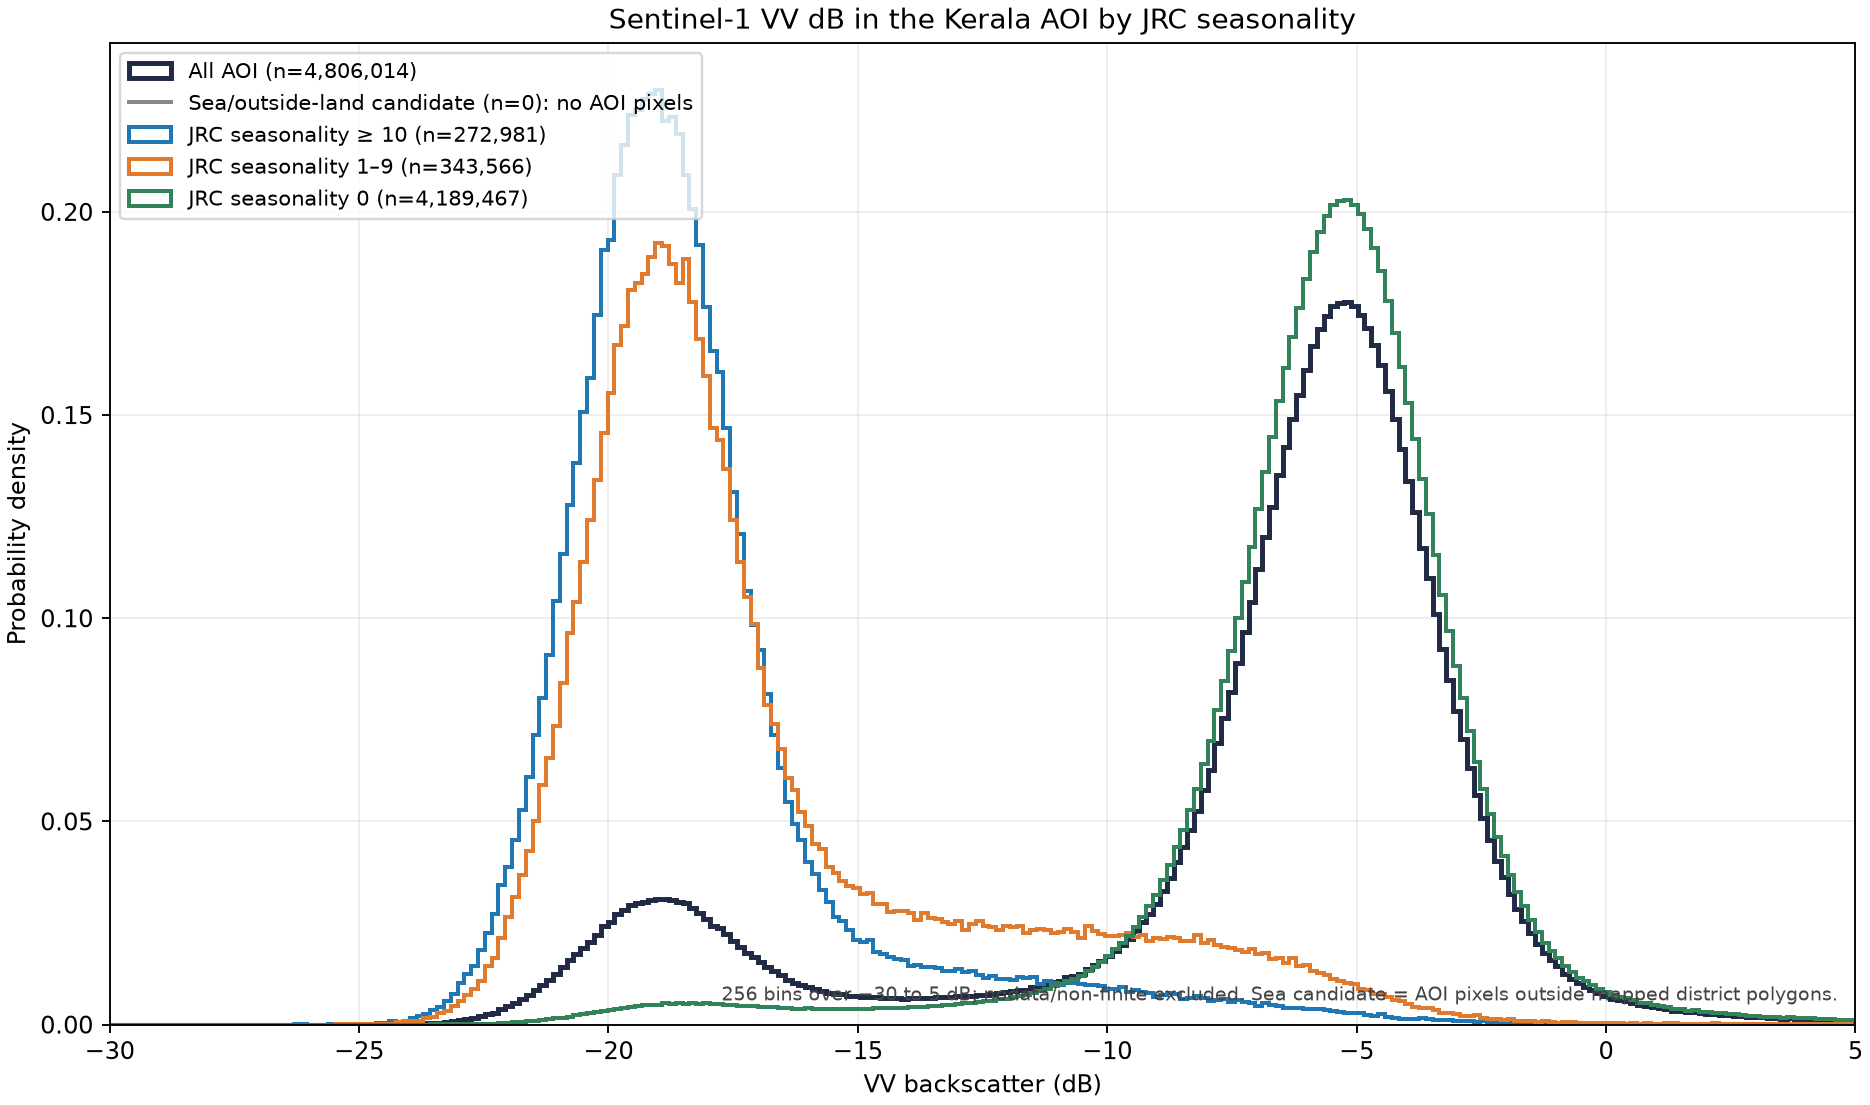
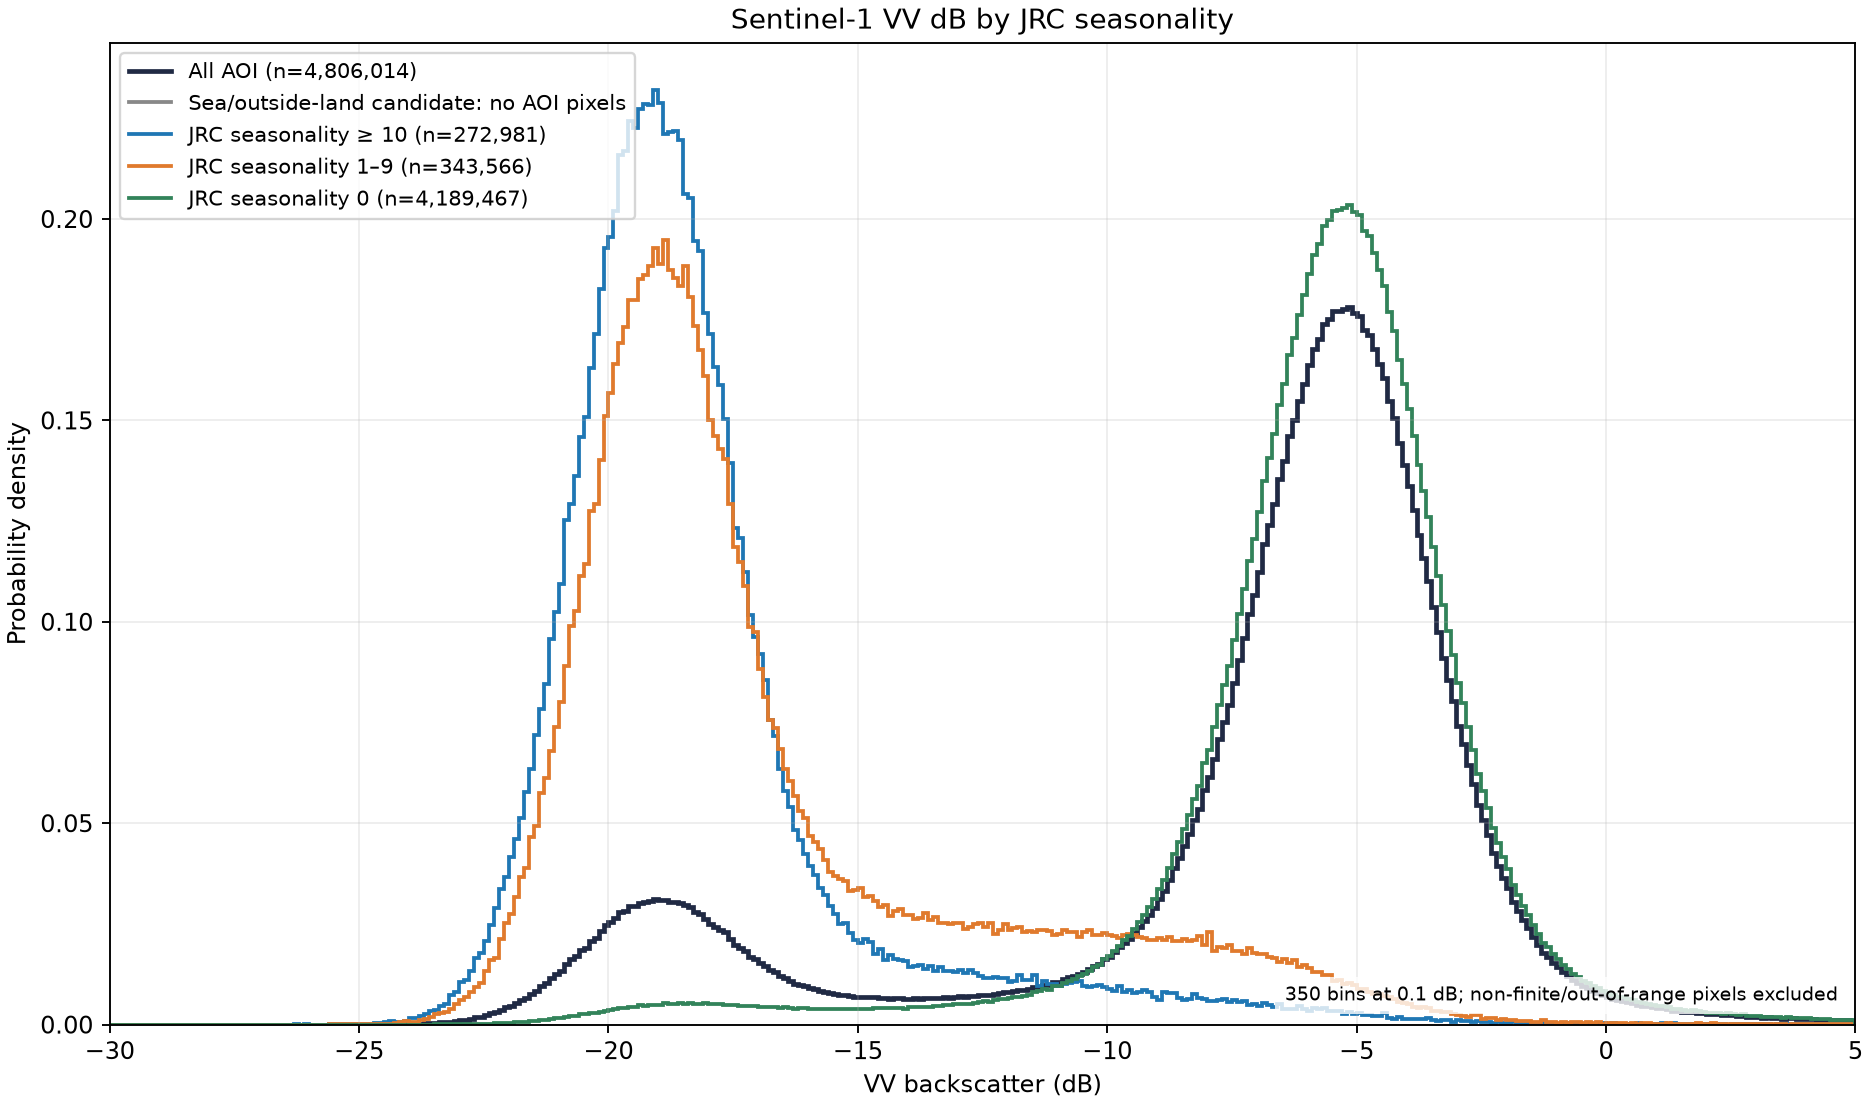
wip: record Kerala KI threshold gate failure

diff --git a/PROGRESS.md b/PROGRESS.md
@@ -1,5 +1,5 @@
 # PROGRESS
-## Status: Phase 2 diagnosis recorded and OSM vectors restored; threshold gate remains stopped
+## Status: Phase 2 stopped at the approved Kittler–Illingworth threshold gate; OSM vectors restored
 ## Checklist
 - [x] Phase 0
   - [x] 0.1 git init + .gitignore + upstream snapshot commit
@@ -24,7 +24,7 @@
   - [x] Taluk boundaries and verification
   - [x] Target grid
   - [x] Vector and raster layers
-  - [ ] Reference flood and Otsu threshold — stopped: rounded Otsu T is outside the prescribed range
+  - [ ] Reference flood and threshold gate — stopped: T_ki is outside the approved range after the VV-only rebuild
   - [ ] Manifest and cache outputs
   - [ ] Optional NASA cross-check
   - [ ] Lock layers and acceptance check
@@ -96,13 +96,18 @@ All runs used GISReActAgent on examples\urban-heat-madison, task "Compute the me
 
 ## Needs Kirito
 - Kirito explicitly resumed the work by directing Phase 1 after the Phase 0 STOP gate. The smoke task failures remain documented: Vulkan reached the 12-round limit; CPU stopped on repeated-code detection. The projected local matrix is below 20 hours, so no cut is required by the prompt.
-- Phase 2 must stop because the computed rounded Otsu threshold is -11.6 dB, outside the instructed range [-22,-13]. Please review the RTC units/resampling and the prescribed Otsu range before authorizing any change; no threshold, source data or tolerance was altered.
-- Phase 2 threshold diagnosis (report only; no layer, threshold, pack, or rule changes):
+- The initial pre-rebuild Phase 2 Otsu stop is superseded by the approved VV-only rebuild and Kittler–Illingworth gate documented below. No threshold range or rule was changed.
+- Pre-rebuild Phase 2 threshold diagnosis (historical; superseded by the approved rerun below):
   - District polygon areas in EPSG:32643: Ernakulam 2,919.995 km2 versus official land area about 3,068 km2 (-4.8%); Alappuzha 1,417.757 km2 versus about 1,415 km2 (+0.2%). Combined OSM area is 4,337.752 km2 versus 4,483 km2. The AOI mask is the union of these district polygons; it has zero in-AOI pixels outside their union. These areas give no evidence of substantial open sea in the polygons; minor coastal/backwater water may remain. Therefore a sea-removed Otsu result is not applicable. The requested plot is `data/kerala/meta/cache/vv_histogram.png`; the empty sea/outside-land candidate is labeled as such, and JRC curves use in-range VV pixels: seasonality >=10 n=272,981; 1-9 n=343,566; 0 n=4,189,467.
   - 500 m-radius spot medians (coordinates are lon,lat; only finite VV in [-30,5] dB): Vembanad Lake centre (76.390, 9.600), n=869, -19.50 dB; central Kochi/MG Road (76.285, 9.970), n=835, -3.53 dB; Kuttanad paddy near Nedumudi (76.370, 9.430), n=871, -18.72 dB. Lake median is within the expected -18 to -25 dB range.
   - Otsu uses the existing 256 bins over [-30,5] dB: current AOI n=4,806,014, T_raw=-11.6113 dB, rounded T=-11.6 dB; excluding JRC seasonality >=10 n=4,533,033, T_raw=-11.3379 dB, rounded -11.3 dB; Ernakulam alone n=3,234,661, T_raw=-11.2012 dB, rounded -11.2 dB; Alappuzha alone n=1,571,353, T_raw=-12.0215 dB, rounded -12.0 dB. All remain outside [-22,-13].
-  - Conversion audit: cached RTC sample percentiles (0.0288/0.2867/0.8537) support linear gamma0. The mosaic path averages in linear units and then applies 10*log10, as required. Its window reader uses the source mask and `src.nodata` (which should exclude -32768 when declared as nodata), but it does not explicitly exclude raw zero values before resampling/averaging. The current threshold therefore needs a corrected, explicitly masked source mosaic before it can be treated as final.
-  - Recommendation: rebuild only the VV mosaic with both -32768 and 0 explicitly excluded before linear averaging, convert the average with 10*log10, and recompute these same diagnostics. Keep the current range and pack unchanged. If the corrected AOI threshold is still outside the prescribed range, review the RTC product and Otsu sampling definition with Kirito before proceeding; do not force the threshold into range. No existing layer, flood output, or manifest was changed for this diagnosis.
+  - This was the pre-rebuild diagnosis: its 256-bin Otsu values and unmasked-zero audit are historical and are superseded by the approved rerun below.
+- Threshold re-check after Kirito's approved VV-only rebuild (2026-11-14): the two signed Sentinel-1 COGs were streamed by windows. The rebuilt mosaic reader excludes source -32768, 0, non-finite values, source masks and declared nodata before reprojection and averaging; averages in linear gamma0, then converts the average with 10*log10. RTC sample percentiles remain 0.0288/0.2867/0.8537. The rebuilt one-band raster is EPSG:32643, 30 m; the AOI histogram has 4,806,014 finite pixels in 350 0.1 dB bins over [-30,5].
+  - Approved threshold results: T_otsu=-11.65 dB (diagnostic only), T_ki=-12.55 dB, T_valley=-13.95 dB. The KI/valley distance is 1.40 dB and passes the <=1.5 dB test, but T_ki fails the allowed [-22,-13] dB range (it is 0.45 dB above -13); therefore T is unset and the rule requires STOP. Otsu water fraction at T_otsu is 15.2571% (733,259 pixels); no water fraction at T is reported because T is unset. The updated three-threshold plot is `data/kerala/meta/cache/vv_histogram_thresholds.png` and the rebuilt JRC-class histogram is `data/kerala/meta/cache/vv_histogram.png`.
+  - Recomputed Otsu alternatives on the same 0.1 dB AOI histogram: current AOI -11.65 dB (4,806,014 pixels); excluding JRC seasonality >=10, -11.35 dB (4,533,033); Ernakulam, -11.15 dB (3,234,661); Alappuzha, -11.95 dB (1,571,353). For context, JRC >=10 is -14.95 dB (272,981 pixels), JRC 1-9 is -14.15 dB (343,566), and JRC 0 is -9.55 dB (4,189,467).
+  - The OSM district polygons measure Ernakulam 2,919.995 km2 versus official land area about 3,068 km2 (-4.8%), and Alappuzha 1,417.757 km2 versus about 1,415 km2 (+0.2%). Their combined area is 4,337.752 km2 versus 4,483 km2 official combined land area. The AOI is the exact union of those polygons and has no in-AOI pixels outside that union; no substantial open sea is included, so a sea-removed Otsu sample is not applicable. The histogram's sea/outside-land candidate is empty (0 pixels); minor coastal/backwater water may remain.
+  - Recomputed 500 m-radius spot medians: Vembanad Lake centre (76.390, 9.600), 869 pixels, -19.50 dB; central Kochi/MG Road (76.285, 9.970), 835 pixels, -3.53 dB; Kuttanad paddy near Nedumudi (76.370, 9.430), 871 pixels, -18.72 dB.
+  - Recommendation / STOP for Kirito: review whether the approved [-22,-13] dB range matches this RTC product and AOI sampling. Do not expand the range, substitute T_valley, write the calibrated pack value, polygonize flood, build the manifest, lock the layers, or run Phase 2 acceptance until Kirito decides how to handle the failed gate. The pack and rules are unchanged; flood area and acceptance outputs are therefore not available.
 
 ## Phase 2 execution
 - Area of interest cached from `osmnx.geocode_to_gdf` for Ernakulam and Alappuzha on 2026-11-14. OSMnx's HTTP cache is under the ignored `data/kerala/meta/cache/` directory.
@@ -111,7 +116,7 @@ All runs used GISReActAgent on examples\urban-heat-madison, task "Compute the me
 - Target grid cached as EPSG:32643 at 30 m: 2,765 × 4,400 = 12,166,000 pixels (<25 million); exterior AOI pixels will be nodata in each agent-visible raster.
 - Raster outputs built from the two instructed descending Sentinel-1 slices, JRC seasonality, and Copernicus DEM. RTC sample percentiles were 0.0288/0.2867/0.8537, confirming linear gamma0; each raster has one band, EPSG:32643, 12,166,000 pixels and 4,819,784 valid inside-AOI pixels. Districts and hospitals (860 features) are also built. OSMnx uses a project-specific User-Agent, a 600-second request timeout and exponential backoff; the exact AOI/district geometries filter bbox results.
 - On 2026-11-14, per-district OSM queries restored `schools.geojson` (2,289 valid Point/Polygon features) and `roads_major.gpkg` (5,985 valid LineStrings). The raw writes contained 6 and 90 null geometries respectively; those unusable records were removed. The default endpoint returned 502 capacity errors and recovered on retry, so the alternate instance and Geofabrik fallback were not needed. Per-layer endpoint and UTC retrieval times are in `data/kerala/meta/cache/osm_retrieval.json`; `_write_manifest` now copies this metadata into `data_manifest.json` when the threshold gate allows the complete manifest to be written. The complete manifest remains uncreated while T is unresolved.
-- Flood stage stopped before polygonization at the required range check. Therefore no flood extent, flood mask, quicklook, manifest, NASA cross-check or read-only layer attributes were created; the Phase 2 acceptance command was not run because the phase instructions require stopping at this failed threshold check.
+- Initial Otsu flood stage stopped before polygonization. After the approved VV-only rebuild, the diagnostic stage regenerated both histogram images and stopped at the Kittler–Illingworth range gate (T_ki=-12.55 dB). No flood extent, flood mask, quicklook, manifest, NASA cross-check or read-only layer attributes were created; Phase 2 `--check` was not run because the user-directed threshold rule requires STOP on this result.
 
 ## Phase 3 execution
 - Kirito directed continuation to Phase 3 while the Phase 2 threshold review remains pending. The Phase 3 pack keeps `water_threshold_vv_db` unresolved in YAML and resolves it only from an accepted manifest at load time; it rejects values outside the prescribed range. No threshold value was invented or substituted.
